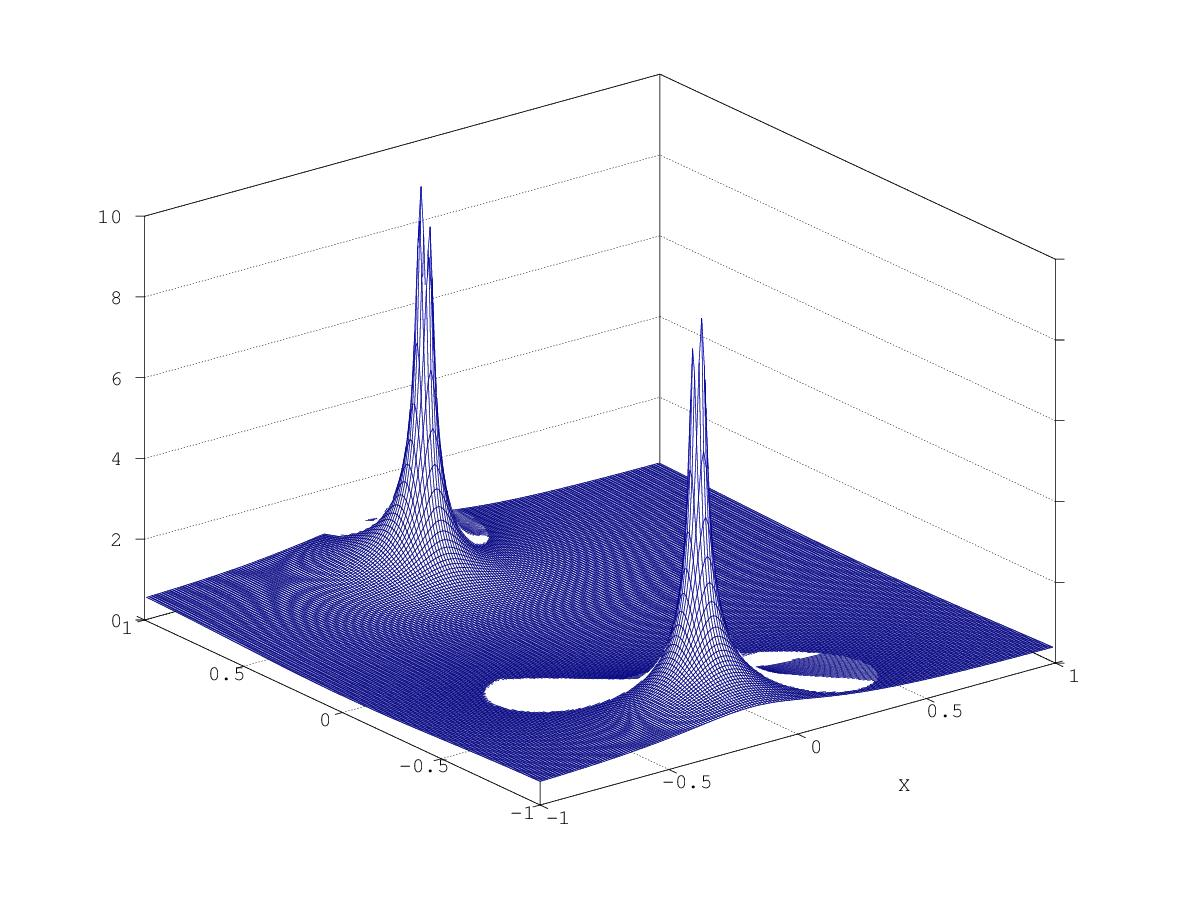
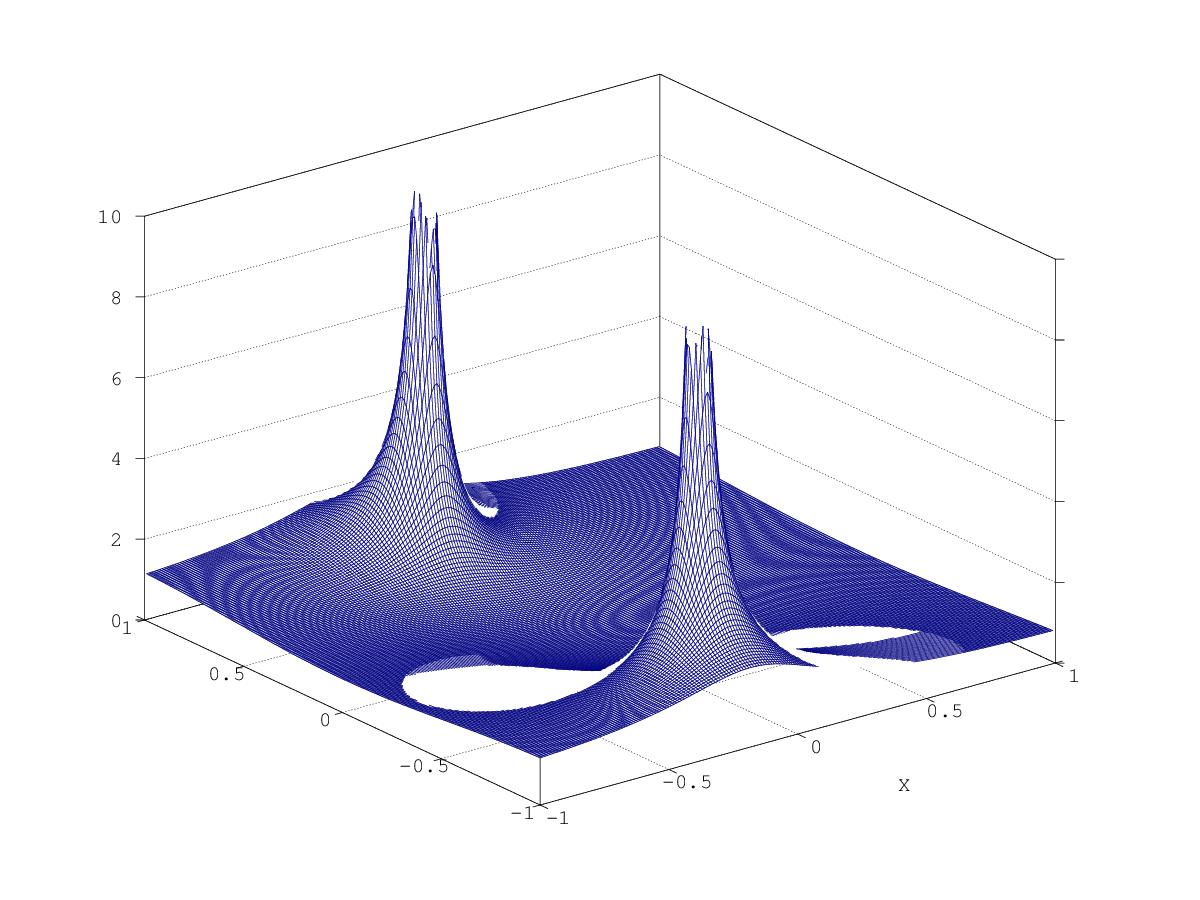
aggiunti i nuovi script di Panariello

Changed region(s): [[0.1233, 0.2178, 0.8942, 0.8711]]

diff --git a/A.A.-2016-2017/ENSM/20170302/test_IIord.m b/A.A.-2016-2017/ENSM/20170302/test_IIord.m
@@ -1,16 +1,21 @@
+% Generica funzione di trasferimento del II ordine definita a partire dai zeri e dai poli
 step = 0.01;
 xlimits = [-1, 1];
 w = [0:step:2*pi - step];
 x = [xlimits(1):step:xlimits(2) - step];
 Z = pianoz(xlimits, xlimits, step);
-%H = 1./(1 + 0.3*Z.**(-1) + 0.5*Z.**(-2));
 
+zero1 = -0.35000 +i*0.42131;
+zero2 = -0.35000 -i*0.42131;
 polo1 = -0.15000 +i*0.69101;
 polo2 = -0.15000 -i*0.69101;
 
-numer = Z.**(2);
+numer = (Z.-zero1).*(Z.-zero2);
 denom = (Z.-polo1).*(Z.-polo2);
 H = numer./denom;
+
+%         con questa scelta di poli e zeri la H corrisponde a:
+%         H = (1 +0.7*Z.**(-1) + 0.3*Z.**(-2))./(1 + 0.3*Z.**(-1) + 0.5*Z.**(-2));
 
 mesh(real(Z), imag(Z), abs(H))
 xlabel('X')

diff --git a/A.A.-2016-2017/ENSM/20170302/README.md b/A.A.-2016-2017/ENSM/20170302/README.md
@@ -22,3 +22,34 @@ axis([xlimits(1) xlimits(2) xlimits(1) xlimits(2) 0 10])
 che produce
 
 ![test IIR](./test_IIR.jpg)
+
+* filtri generici del second'ordine:
+
+```matlab
+% Generica funzione di trasferimento del II ordine definita a partire dai zeri e dai poli
+step = 0.01;
+xlimits = [-1, 1];
+w = [0:step:2*pi - step];
+x = [xlimits(1):step:xlimits(2) - step];
+Z = pianoz(xlimits, xlimits, step);
+
+zero1 = -0.35000 +i*0.42131;
+zero2 = -0.35000 -i*0.42131;
+polo1 = -0.15000 +i*0.69101;
+polo2 = -0.15000 -i*0.69101;
+
+numer = (Z.-zero1).*(Z.-zero2);
+denom = (Z.-polo1).*(Z.-polo2);
+H = numer./denom;
+
+%         con questa scelta di poli e zeri la H corrisponde a:
+%         H = (1 +0.7*Z.**(-1) + 0.3*Z.**(-2))./(1 + 0.3*Z.**(-1) + 0.5*Z.**(-2));
+
+mesh(real(Z), imag(Z), abs(H))
+xlabel('X')
+axis([xlimits(1) xlimits(2) xlimits(1) xlimits(2) 0 10])
+```
+
+che produce:
+
+![test IIord](./test_IIord.jpg)
